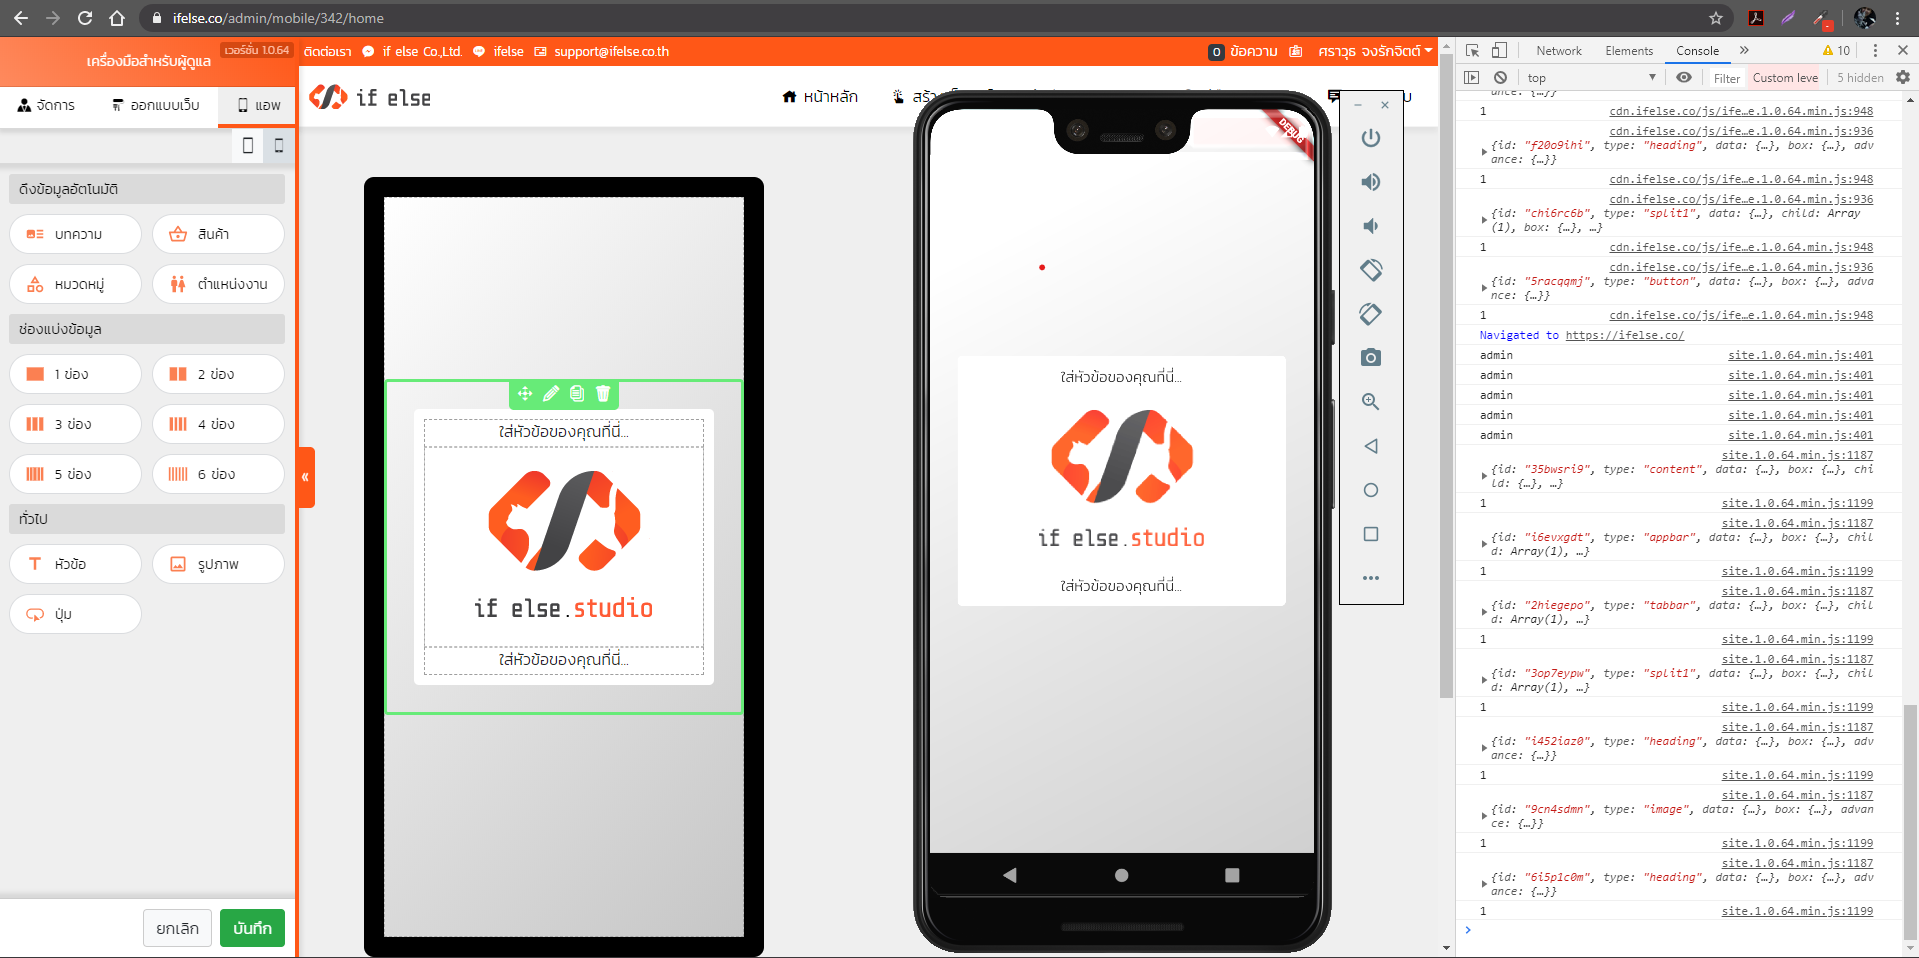
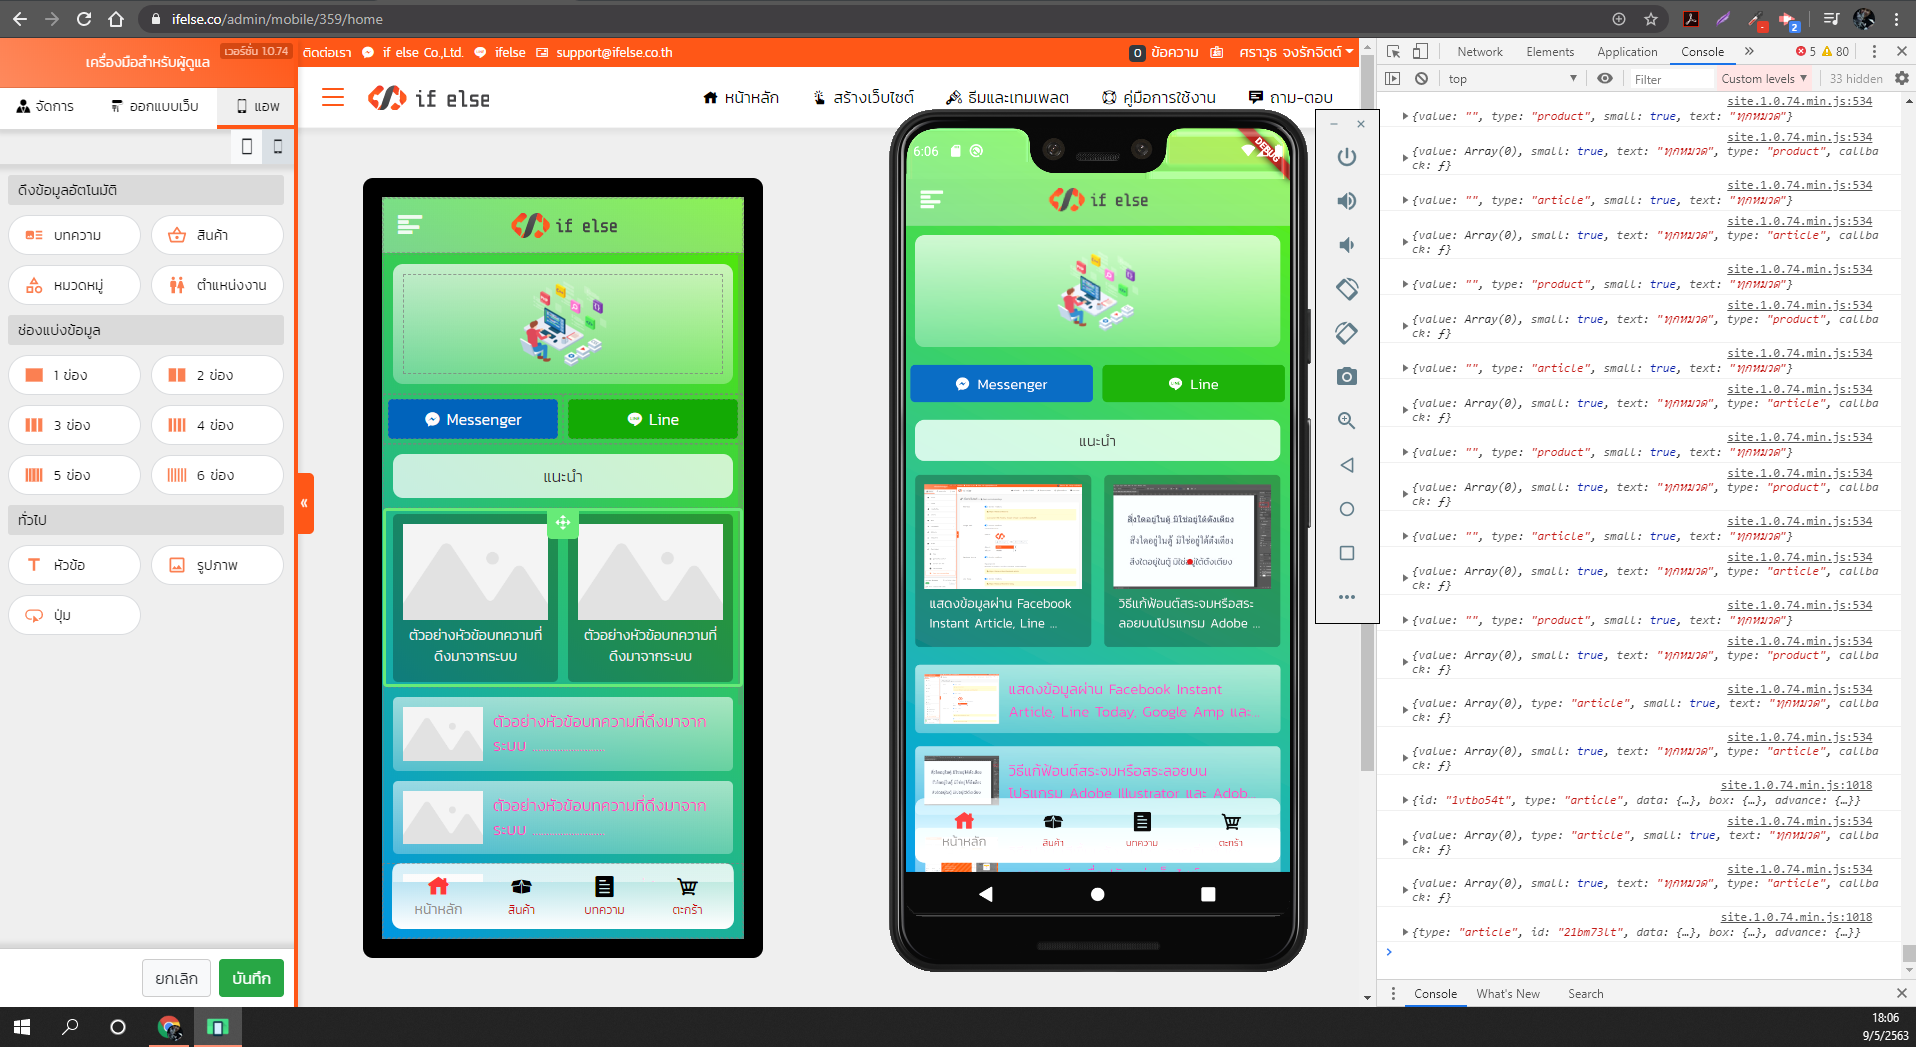
add: article/style

diff --git a/lib/src/convert/article.dart b/lib/src/convert/article.dart
@@ -3,6 +3,7 @@ import 'package:flutter_staggered_grid_view/flutter_staggered_grid_view.dart';
 import 'dart:async';
 import 'dart:convert';
 import 'package:http/http.dart' as http;
+import 'package:ifelse/src/convert/align.dart';
 import '../site.dart';
 import 'image.dart';
 import 'gradient.dart';
@@ -60,12 +61,23 @@ class Article {
     EdgeInsets padding = getEdgeInset(getVal(dataBox,'padding')),
       margin = getEdgeInset(getVal(dataBox,'margin')),
       contentPadding = getEdgeInset(getVal(data,'content.padding'));
+    TextAlign contentAlign = getAlignText(getVal(data,'content.align'));
+    int contentLine = getInt(getVal(data,'content.line'),0);
+    String align = getVal(data,'align').toString();
+    double width  = getDouble(getVal(data,'width'),80);
     Border border = getBorder(getVal(dataBox,'border'));
     BorderRadius radius = getBorderRadius(getVal(dataBox,'border'));
     List<BoxShadow> boxShadow = getBoxShadow(getVal(dataBox,'shadow'));
     Gradient gradient  = getGradient(getVal(dataBox,'bg.color'));
     Color textColor  = getColor(getVal(data,'color'),'000');
     double textSize  = getDouble(getVal(data,'fsize'),16);
+
+    if(contentLine == 0) {
+      contentLine = null;
+    }
+    if(width < 50) {
+      width = 50;
+    }
     try {
       //Site.log.i(box);
       return Container(
@@ -83,6 +95,7 @@ class Article {
           crossAxisCount: colMb,
           itemCount: snapshot.data.length,
           shrinkWrap: true,
+          padding: EdgeInsets.all(0),
           itemBuilder: (BuildContext context, int index) => Cell(
               snapshot.data[index],
               padding,
@@ -91,7 +104,11 @@ class Article {
               radius,
               boxShadow,
               gradient,
+              align,
+              width,
+              contentAlign,
               contentPadding,
+              contentLine,
               textColor,
               textSize,
             ),
@@ -149,7 +166,11 @@ class CellModel {
 }
 
 class Cell extends StatelessWidget {
-  const Cell(this.cellModel,this.padding,this.margin,this.border,this.radius,this.shadow,this.gradient,this.contentPadding,this.textColor,this.textSize);
+  const Cell(
+    this.cellModel,this.padding,this.margin,this.border,this.radius,this.shadow,this.gradient,  
+    this.align,this.width,this.contentAlign,this.contentPadding,this.contentLine,
+    this.textColor,this.textSize
+  );
   @required
   final CellModel cellModel;
   final EdgeInsets padding;
@@ -158,14 +179,76 @@ class Cell extends StatelessWidget {
   final BorderRadius radius;
   final List<BoxShadow> shadow;
   final Gradient gradient;
+  final String align;
+  final double width;
+  final TextAlign contentAlign;
   final EdgeInsets contentPadding;
+  final int contentLine;
   final Color textColor;
   final double textSize;
  
   @override
   Widget build(BuildContext context) {
+    Site.log.e(contentAlign);
+    Widget _image = AspectRatio(
+      aspectRatio: 3 / 2,
+      child: Image.network(
+        cellModel.image['src'],
+        width: cellModel.image['width'],
+        height: cellModel.image['height'],
+        alignment: Alignment.topCenter,
+        fit: BoxFit.fitHeight
+      ),
+    );
+    Widget _content = Container(
+      padding: contentPadding,       
+      margin: EdgeInsets.all(0),
+      child: Text(
+        cellModel.title,
+        textAlign: contentAlign,
+        overflow: TextOverflow.ellipsis,
+        maxLines: contentLine,
+        style: TextStyle(color: textColor, fontSize: textSize, fontFamily:'Kanit', height: 1.5),
+      ),
+    );
+
+    Widget _child;
+    if(align == 'left') {
+      _child = Row(            
+        children: [
+          Container(
+            width: width,
+            child: _image,
+          ),
+          Expanded(        
+            child: _content,
+          ),
+        ],
+      );
+    } else if(align == 'right') {
+      _child = Row(            
+        children: [
+          Expanded(        
+            child: _content,
+          ),
+          Container(
+            width: width,
+            child: _image,
+          ),
+        ],
+      );
+    } else {
+      _child = Column(       
+        crossAxisAlignment: CrossAxisAlignment.center,     
+        children: [
+          _image,
+          _content,
+        ],
+      );
+    }
     try {
       return Center(
+        
         child: Container(
           decoration: BoxDecoration(
             gradient: gradient,
@@ -174,30 +257,7 @@ class Cell extends StatelessWidget {
           ),
           margin: margin,
           padding: padding,
-          child: Column(
-            crossAxisAlignment: CrossAxisAlignment.center,
-            children: <Widget>[
-              AspectRatio(
-                aspectRatio: 3 / 2,
-                child: Image.network(
-                  cellModel.image['src'],
-                  width: cellModel.image['width'],
-                  height: cellModel.image['height'],
-                  alignment: Alignment.topCenter,
-                  fit: BoxFit.fitHeight),
-              ),
-              Padding(
-                padding: contentPadding,
-                child: Text(
-                  cellModel.title,
-                  textAlign: TextAlign.center,
-                  overflow: TextOverflow.ellipsis,
-                  maxLines: 3,
-                  style: TextStyle(color: textColor, fontSize: textSize, fontFamily:'Kanit', height: 1.5),
-                ),
-              ),
-            ],
-          ),
+          child: _child,
         ),
       );
     } catch (e) {

diff --git a/lib/src/layer/navbar.dart b/lib/src/layer/navbar.dart
@@ -28,7 +28,7 @@ Widget getNavBar(dynamic obj, BuildContext buildContext) {
       for(int i=0; i<items.length; i++) {
         Map v = items[i];
         Icon _icon = Icon(getIcon(v['icon']), size: i==0?hoverIconSize:dataIconSize, color: i==0?hoverIconColor:dataIconColor,);
-        Text _title = Text(v['text'], style: TextStyle(fontSize: i==0?hoverTextSize:dataTextSize, color: i==0?hoverTextColor:dataTextColor, fontFamily: 'Kanit', height: 1.5));
+        Text _title = Text(v['text'], style: TextStyle(fontSize: i==0?hoverTextSize:dataTextSize, color: i==0?hoverTextColor:dataTextColor, fontFamily: 'Kanit'));
         _item.add(BottomNavigationBarItem(icon: _icon, title: _title));
       };
     }
@@ -48,12 +48,12 @@ Widget getNavBar(dynamic obj, BuildContext buildContext) {
           backgroundColor: Colors.transparent,
           //selectedItemColor: hoverIconColor,
           //selectedFontSize: hoverTextSize,
-          selectedLabelStyle: TextStyle(fontSize: hoverTextSize, color: hoverIconColor, fontFamily: 'Kanit', height: 1.5),
+          selectedLabelStyle: TextStyle(fontSize: hoverTextSize, color: hoverIconColor, fontFamily: 'Kanit'),
           selectedIconTheme: IconThemeData(size: hoverIconSize, color: hoverIconColor),
           
           //unselectedItemColor: dataTextColor,
           //unselectedFontSize: dataTextSize,
-          unselectedLabelStyle: TextStyle(fontSize: dataTextSize, color: dataTextColor, fontFamily: 'Kanit', height: 1.5),
+          unselectedLabelStyle: TextStyle(fontSize: dataTextSize, color: dataTextColor, fontFamily: 'Kanit'),
           unselectedIconTheme: IconThemeData(size: dataIconSize, color: dataIconColor),
           
           elevation: 0,

diff --git a/lib/src/convert/split.dart b/lib/src/convert/split.dart
@@ -11,18 +11,25 @@ Widget getSplit(int col, Map<String, dynamic> map, BuildContext buildContext) {
   List<dynamic> child = map['child'];
   dynamic box = getVal(map,'box');
   dynamic data = getVal(map,'data');
+  EdgeInsets inPadding = getEdgeInset(getVal(data,'box.padding'));
   List<Widget> widget = [];
   if(col == 1) {
-      widget.add(Column(
+      widget.add(Container(
+        padding: inPadding,
+        child: Column(
           children: (child.length > 0 ? Layer.build(child[0], buildContext) : null)
         )
-      );
+      )
+    );
   } else {
     for(int i=0; i<col; i++) {
       widget.add(
-        Expanded(
-          child: Column(
+        Expanded(          
+          child: Container(
+            padding: inPadding,
+            child: Column(
             children: (child.length > i ? Layer.build(child[i], buildContext) : null)
+          )
           )
         )
       );
@@ -41,7 +48,6 @@ Widget getSplit(int col, Map<String, dynamic> map, BuildContext buildContext) {
         constraints: boxwidth,
         child: Container(
           alignment: Alignment.center,    
-
           decoration: BoxDecoration(
             gradient: getGradient(getVal(box,'bg.color')),
             borderRadius: getBorderRadius(getVal(box,'border')),

diff --git a/lib/src/layer/heading.dart b/lib/src/layer/heading.dart
@@ -23,7 +23,7 @@ class HeadingParser extends WidgetParser {
         boxShadow: getBoxShadow(getVal(box,'shadow')),
       ),
       margin: getEdgeInset(getVal(box,'margin')),
-      padding: getEdgeInset(getVal(box,'bg.padding')),
+      padding: getEdgeInset(getVal(box,'padding')),
       alignment: Alignment(0.0, 0.0),
       child: SizedBox(
         width: double.infinity,

diff --git a/lib/src/layer.dart b/lib/src/layer.dart
@@ -72,8 +72,6 @@ class Layer {
       int appbar = getInt(getVal(data,'appbar')),
         navbar = getInt(getVal(data,'navbar'));
 
-        Site.log.e(child);
-
       SystemChrome.setSystemUIOverlayStyle(SystemUiOverlayStyle(
         statusBarColor: Colors.transparent,
       ));
